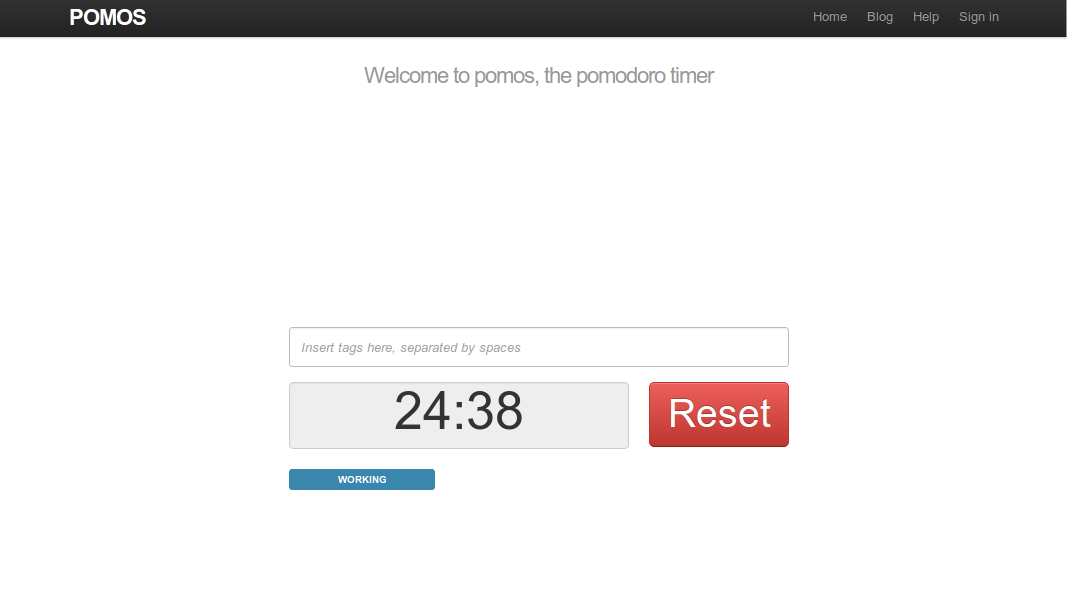
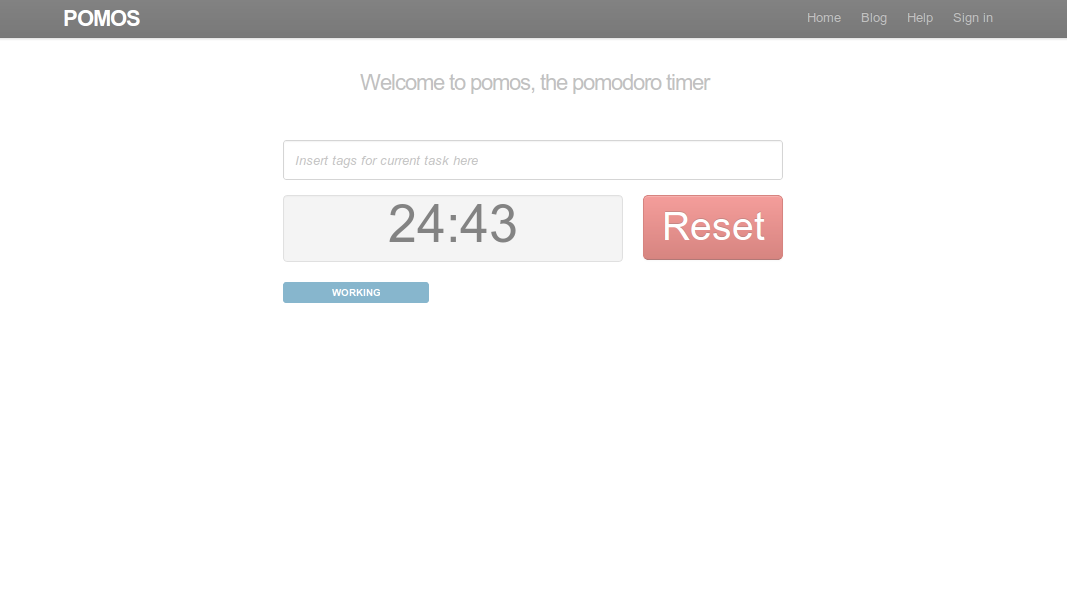
replace app with launch page

diff --git a/public/index.html b/public/index.html
@@ -2,6 +2,9 @@
 
 <html>
 <head>
+
+	<meta property="og:title" content="Want to work more productively using the Pomodoro Technique? - We're building Pomos, a better Pomodoro timer" /><meta property="og:type" content="company" /><meta property="og:site_name" content="Want to work more productively using the Pomodoro Technique?" /><meta property="og:url" content="http://startpomos.com" /><meta property="og:image" content="null" /><meta property="og:description" content="Imagine what someone else would want to post on your wall about signing up for your project." />
+
 <title>pomos - the pomodoro timer</title>
 
 <style media="screen" type="text/css">
@@ -21,7 +24,50 @@
 	box-shadow: 0 0 5px #888;
 
 	margin:auto;
+
+	
+
 }
+
+/*custom launchrock styling*/
+
+#lrwrapper {
+	padding-top:75px;
+}
+
+.lrdiscoverwidget {
+	width:410px;
+	margin-right:auto;
+	margin-left:auto;
+
+	
+}
+
+.lrcontent {
+	padding-top:50px;
+}
+
+
+
+h2.site-title {
+	font-size:10px;
+}
+
+/*
+.site-tagline {
+	margin-top:0px;
+	padding-top:0px;
+}*/
+
+.inviteform {
+	padding-bottom: 0px;
+}
+
+.site-desc {
+	padding-bottom:0px;
+	margin-bottom: 0px;
+}
+
 
 </style>
 
@@ -29,7 +75,11 @@
 
 <body>
 <div id="wrapper">
-	The content of the document......
+
+	<div id="lrwrapper">
+		<div rel="C8F5YWTV" class="lrdiscoverwidget" data-logo="off" data-background="off" data-share-url="startpomos.com" data-css=""></div><script type="text/javascript" src="http://launchrock-ignition.s3.amazonaws.com/ignition.1.1.js"></script>
+	</div>
+
 </div>
 </body>
 
